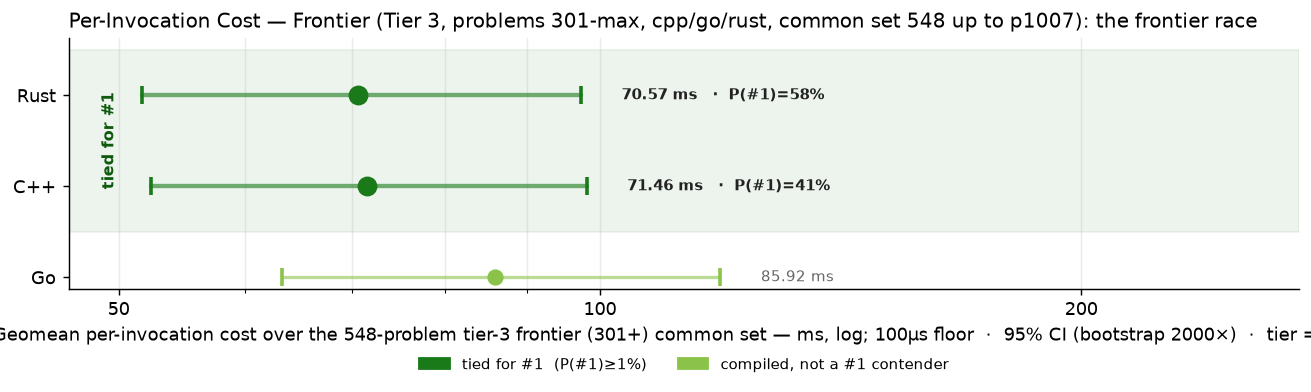
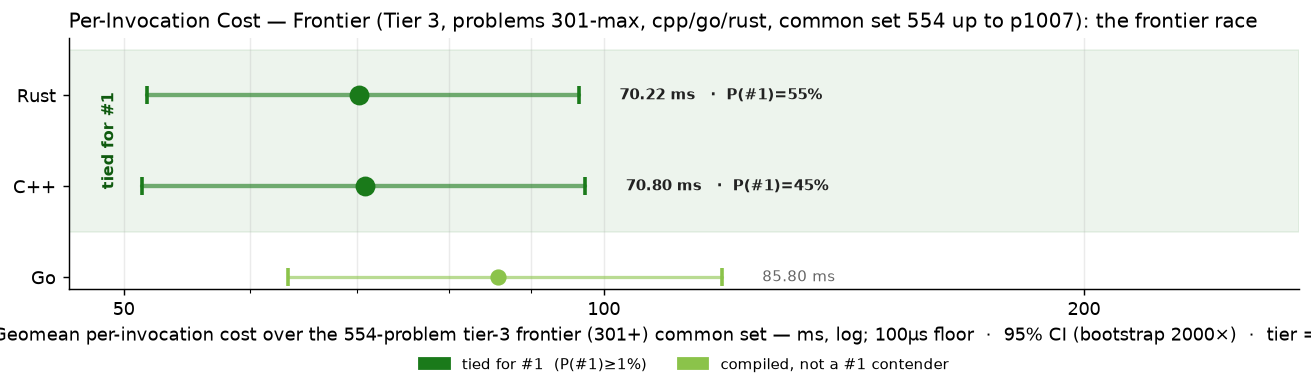
bench: p513 p627 p629 p631 p652 p916 (cpp/go/rust)

diff --git a/RESULTS.md b/RESULTS.md
@@ -1,6 +1,6 @@
 # Project Euler — Cross-Language Benchmarks
 
-> **Scope: 4521 in-scope cells across 1007 problems × tiered languages — 4058 measured (89.8% coverage).**
+> **Scope: 4521 in-scope cells across 1007 problems × tiered languages — 4074 measured (90.1% coverage).**
 > The cross-language ranking below is computed over the **200-problem common set** (problems in 1-200 where every language has a passing measurement) — the apples-to-apples Foundation comparison surface.  Per-tier rankings and coverage detail appear further below.
 > Growing carefully — each new problem and language is audited for state-leak
 > safety, verified for answer correctness, and added only when it cleanly fits the
@@ -70,15 +70,15 @@ Same scatter as the Foundation chart, restricted to the tier-2 active languages 
 
 The frontier verification trio — C++, Go, Rust — on problems above 300. 3-way cross-language agreement is the verification protocol (strictly stronger than 2-way; see JOURNEY.md "Tier Reframing" episode for the p254 lesson that motivated it). Python and Zig are explicitly out of this tier — python's wall cost makes it impractical at level 5+, and zig's role caps at Tier 2.
 
-### Per-Invocation Cost (Common Set, 548 of ≤707 problems in scope)
+### Per-Invocation Cost (Common Set, 554 of ≤707 problems in scope)
 
 ![Per-Invocation Cost — Tier 3](charts/per_iter_total_tier3.png)
 
-| Rank | Language | Geomean (548-problem common set) | Total (sum) | Lines of code | vs Fastest |
+| Rank | Language | Geomean (554-problem common set) | Total (sum) | Lines of code | vs Fastest |
 |------|----------|--------------------:|------------:|--------------:|-----------:|
-| 1 | **Rust** | 70.57 ms | 1571.51 s | 95,490 | 1.00× |
-| 2 | **C++** | 71.46 ms | 1675.69 s | 74,302 | 1.01× |
-| 3 | **Go** | 85.92 ms | 1937.67 s | 93,155 | 1.22× |
+| 1 | **Rust** | 70.22 ms | 1620.66 s | 96,732 | 1.00× |
+| 2 | **C++** | 70.80 ms | 1676.58 s | 75,505 | 1.01× |
+| 3 | **Go** | 85.80 ms | 1995.86 s | 94,415 | 1.22× |
 
 ### Speed vs Code Size
 

diff --git a/per_problem/per_problem_0601-0700.md b/per_problem/per_problem_0601-0700.md
@@ -34,11 +34,11 @@ in tier-1 display order (native → managed → interpreted).
 | **p0624** | 8.7 µs | 5.9 µs | 4.7 µs~ |
 | **p0625** | 872.01 ms | 647.09 ms | 768.48 ms |
 | **p0626** | — | — | — |
-| **p0627** | — | — | — |
+| **p0627** | 54.22 ms | 29.54 ms | 133.85 ms |
 | **p0628** | — | 339.06 ms | — |
-| **p0629** | — | — | — |
+| **p0629** | 46.49 ms | 30.54 ms | 19.10 ms |
 | **p0630** | 3.68 s | 436.14 ms | 580.83 ms |
-| **p0631** | — | — | — |
+| **p0631** | 32.84 ms | 5.66 ms | 15.89 ms |
 | **p0632** | 1.18 s | 1.27 s | 1.27 s |
 | **p0633** | — | — | — |
 | **p0634** | 7.60 ms | 9.09 ms | 9.93 ms |
@@ -59,7 +59,7 @@ in tier-1 display order (native → managed → interpreted).
 | **p0649** | 1.5 µs | 1.3 µs | 40.0 µs~ |
 | **p0650** | 1.09 s | 732.86 ms | 1.13 s |
 | **p0651** | — | — | — |
-| **p0652** | — | — | — |
+| **p0652** | 119.5 µs | 94.7 µs | 90.6 µs |
 | **p0653** | 21.60 ms | 15.05 ms | 60.25 ms |
 | **p0654** | 10.33 s | 2.20 s | 2.82 s |
 | **p0655** | 6.64 s | 6.61 s | 16.14 s |

diff --git a/per_problem/per_problem_0501-0600.md b/per_problem/per_problem_0501-0600.md
@@ -20,7 +20,7 @@ in tier-1 display order (native → managed → interpreted).
 | **p0510** | 183.8 µs | 206.1 µs | 226.7 µs |
 | **p0511** | 1.10 s | 1.12 s | 1.21 s |
 | **p0512** | 15.78 ms | 9.79 ms | 11.92 ms |
-| **p0513** | — | 49.67 s | 58.30 s |
+| **p0513** | 128.13 ms | 48.76 s | 57.21 s |
 | **p0514** | 452.93 ms | 718.97 ms | 759.97 ms |
 | **p0515** | 546.9 µs | 778.0 µs | 907.9 µs |
 | **p0516** | 56.32 ms | 27.12 ms | 53.10 ms |

diff --git a/per_problem/per_problem_0901-1000.md b/per_problem/per_problem_0901-1000.md
@@ -23,7 +23,7 @@ in tier-1 display order (native → managed → interpreted).
 | **p0913** | 26.59 ms | 24.25 ms | 18.19 ms |
 | **p0914** | 101.55 ms | 3.65 s | 100.08 ms |
 | **p0915** | 1.24 s | 25.51 ms | 7.45 ms |
-| **p0916** | — | — | — |
+| **p0916** | 621.88 ms | 320.50 ms | 809.01 ms |
 | **p0917** | 371.51 ms | 545.18 ms | 112.97 ms |
 | **p0918** | 10.4 µs | 4.29 ms | 7.60 ms |
 | **p0919** | 9.73 s | 41.38 s | 49.15 s |
